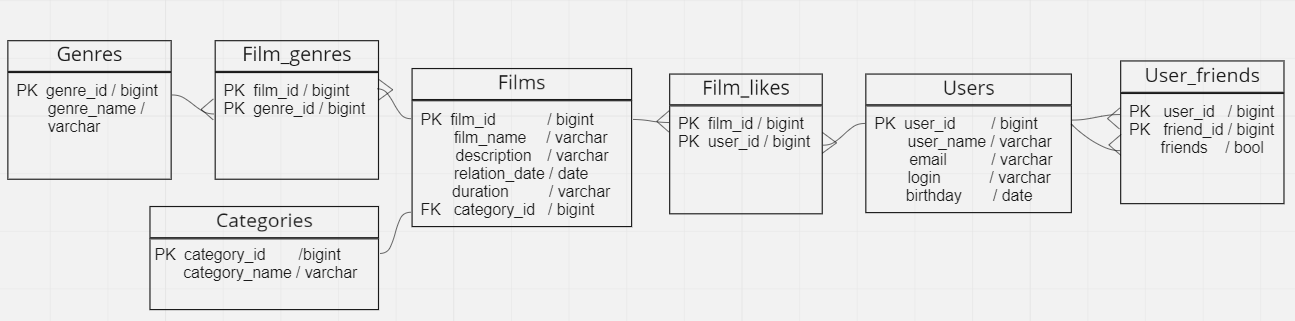
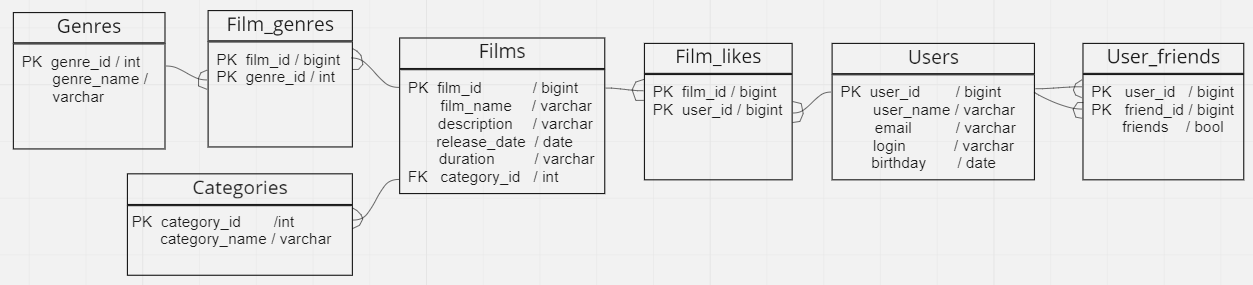
fix: добавить пример таблицы, для жанров и категорий изменить тип данных, исправить связь для категорий

Changed region(s): [[0.0, 0.0281, 0.996, 0.9825]]

diff --git a/README.md b/README.md
@@ -6,7 +6,10 @@ Template repository for Filmorate project.
 Таблица "Films" имеет первичный ключ "film_id". Таблица "Genres" имеет первичный ключ "genre_id"
 Взаимодействие таблиц как отношение многие-ко-многим реализованно через таблицу "Film_genres", в которой каждому 
 значению первичного составного ключа соответствует запись об одном фильме и одном жанре. Таким образом один
-фильм может иметь несколько жанров и один жанр несколько фильмов, при этом не повторяясь. Для остальных таблиц
-отношения реализованны похожим образом.
+фильм может иметь несколько жанров и один жанр несколько фильмов, при этом не повторяясь.
+
+![schema Filmorate](E:\dev\java-filmorate\film_genres.png)
+
+Для остальных таблиц отношения реализованны похожим образом.
 
 В таблице "User_friends" поле "friends" отображает согласие на дружбу, если значение false то запрос без ответа.
